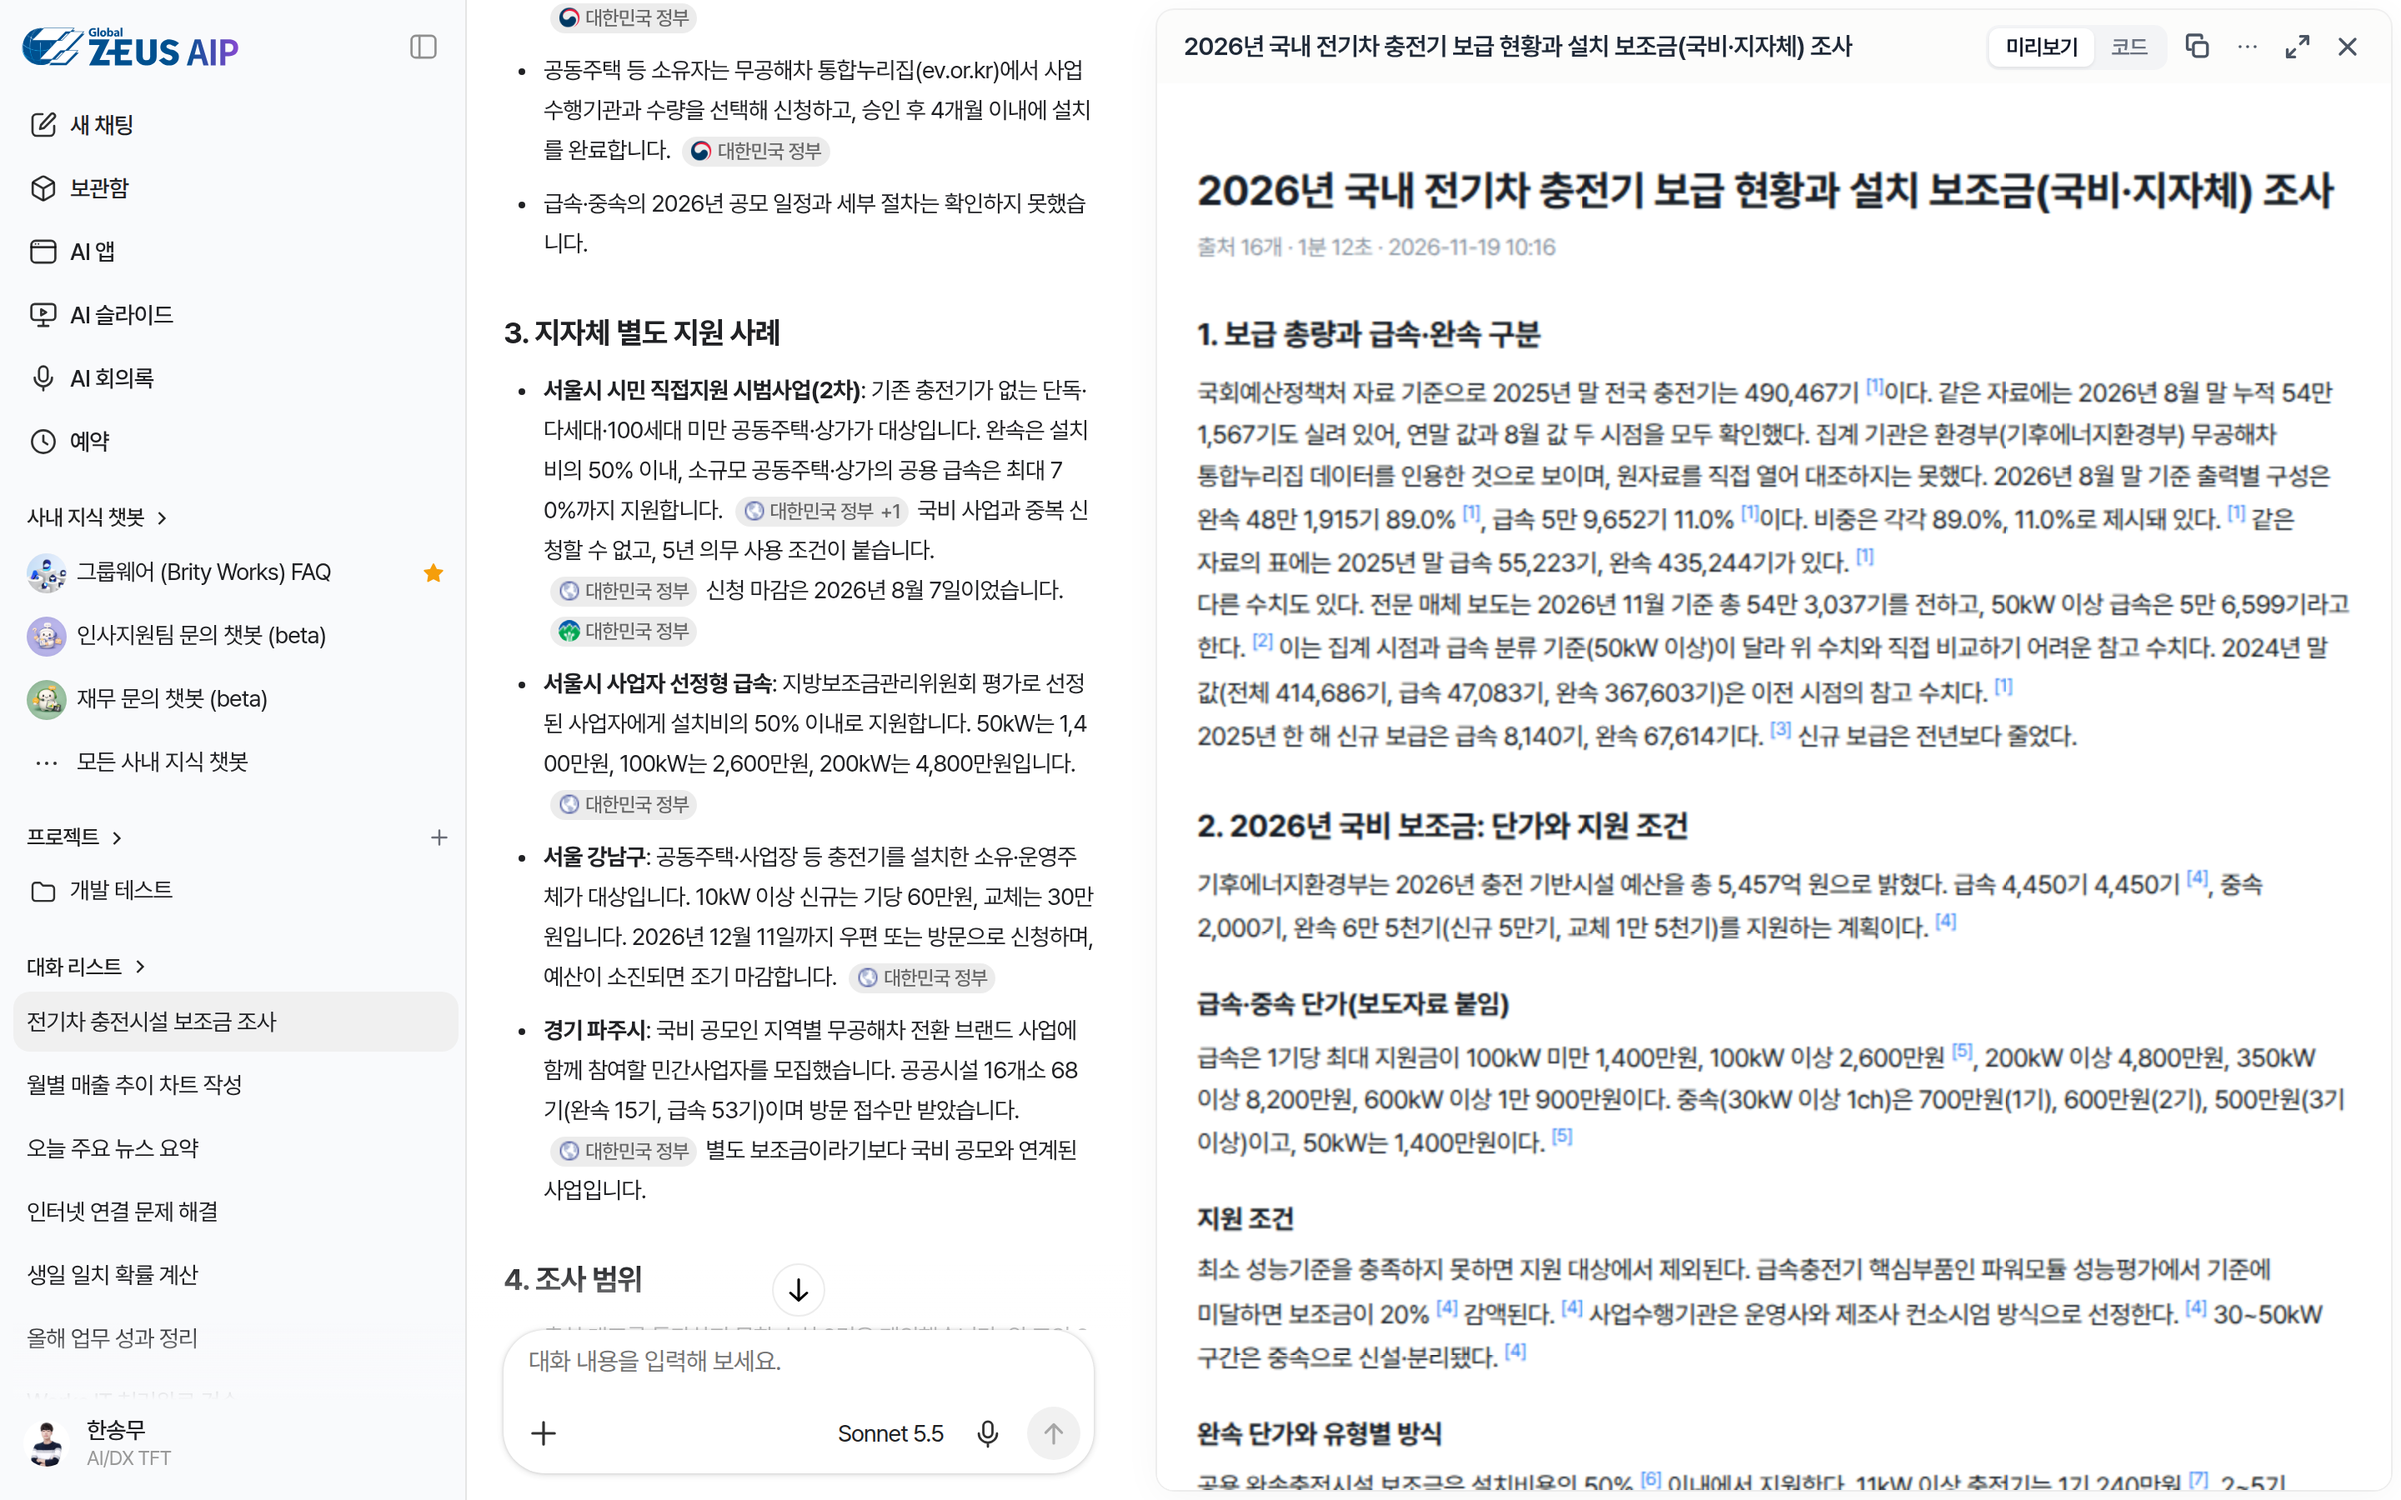
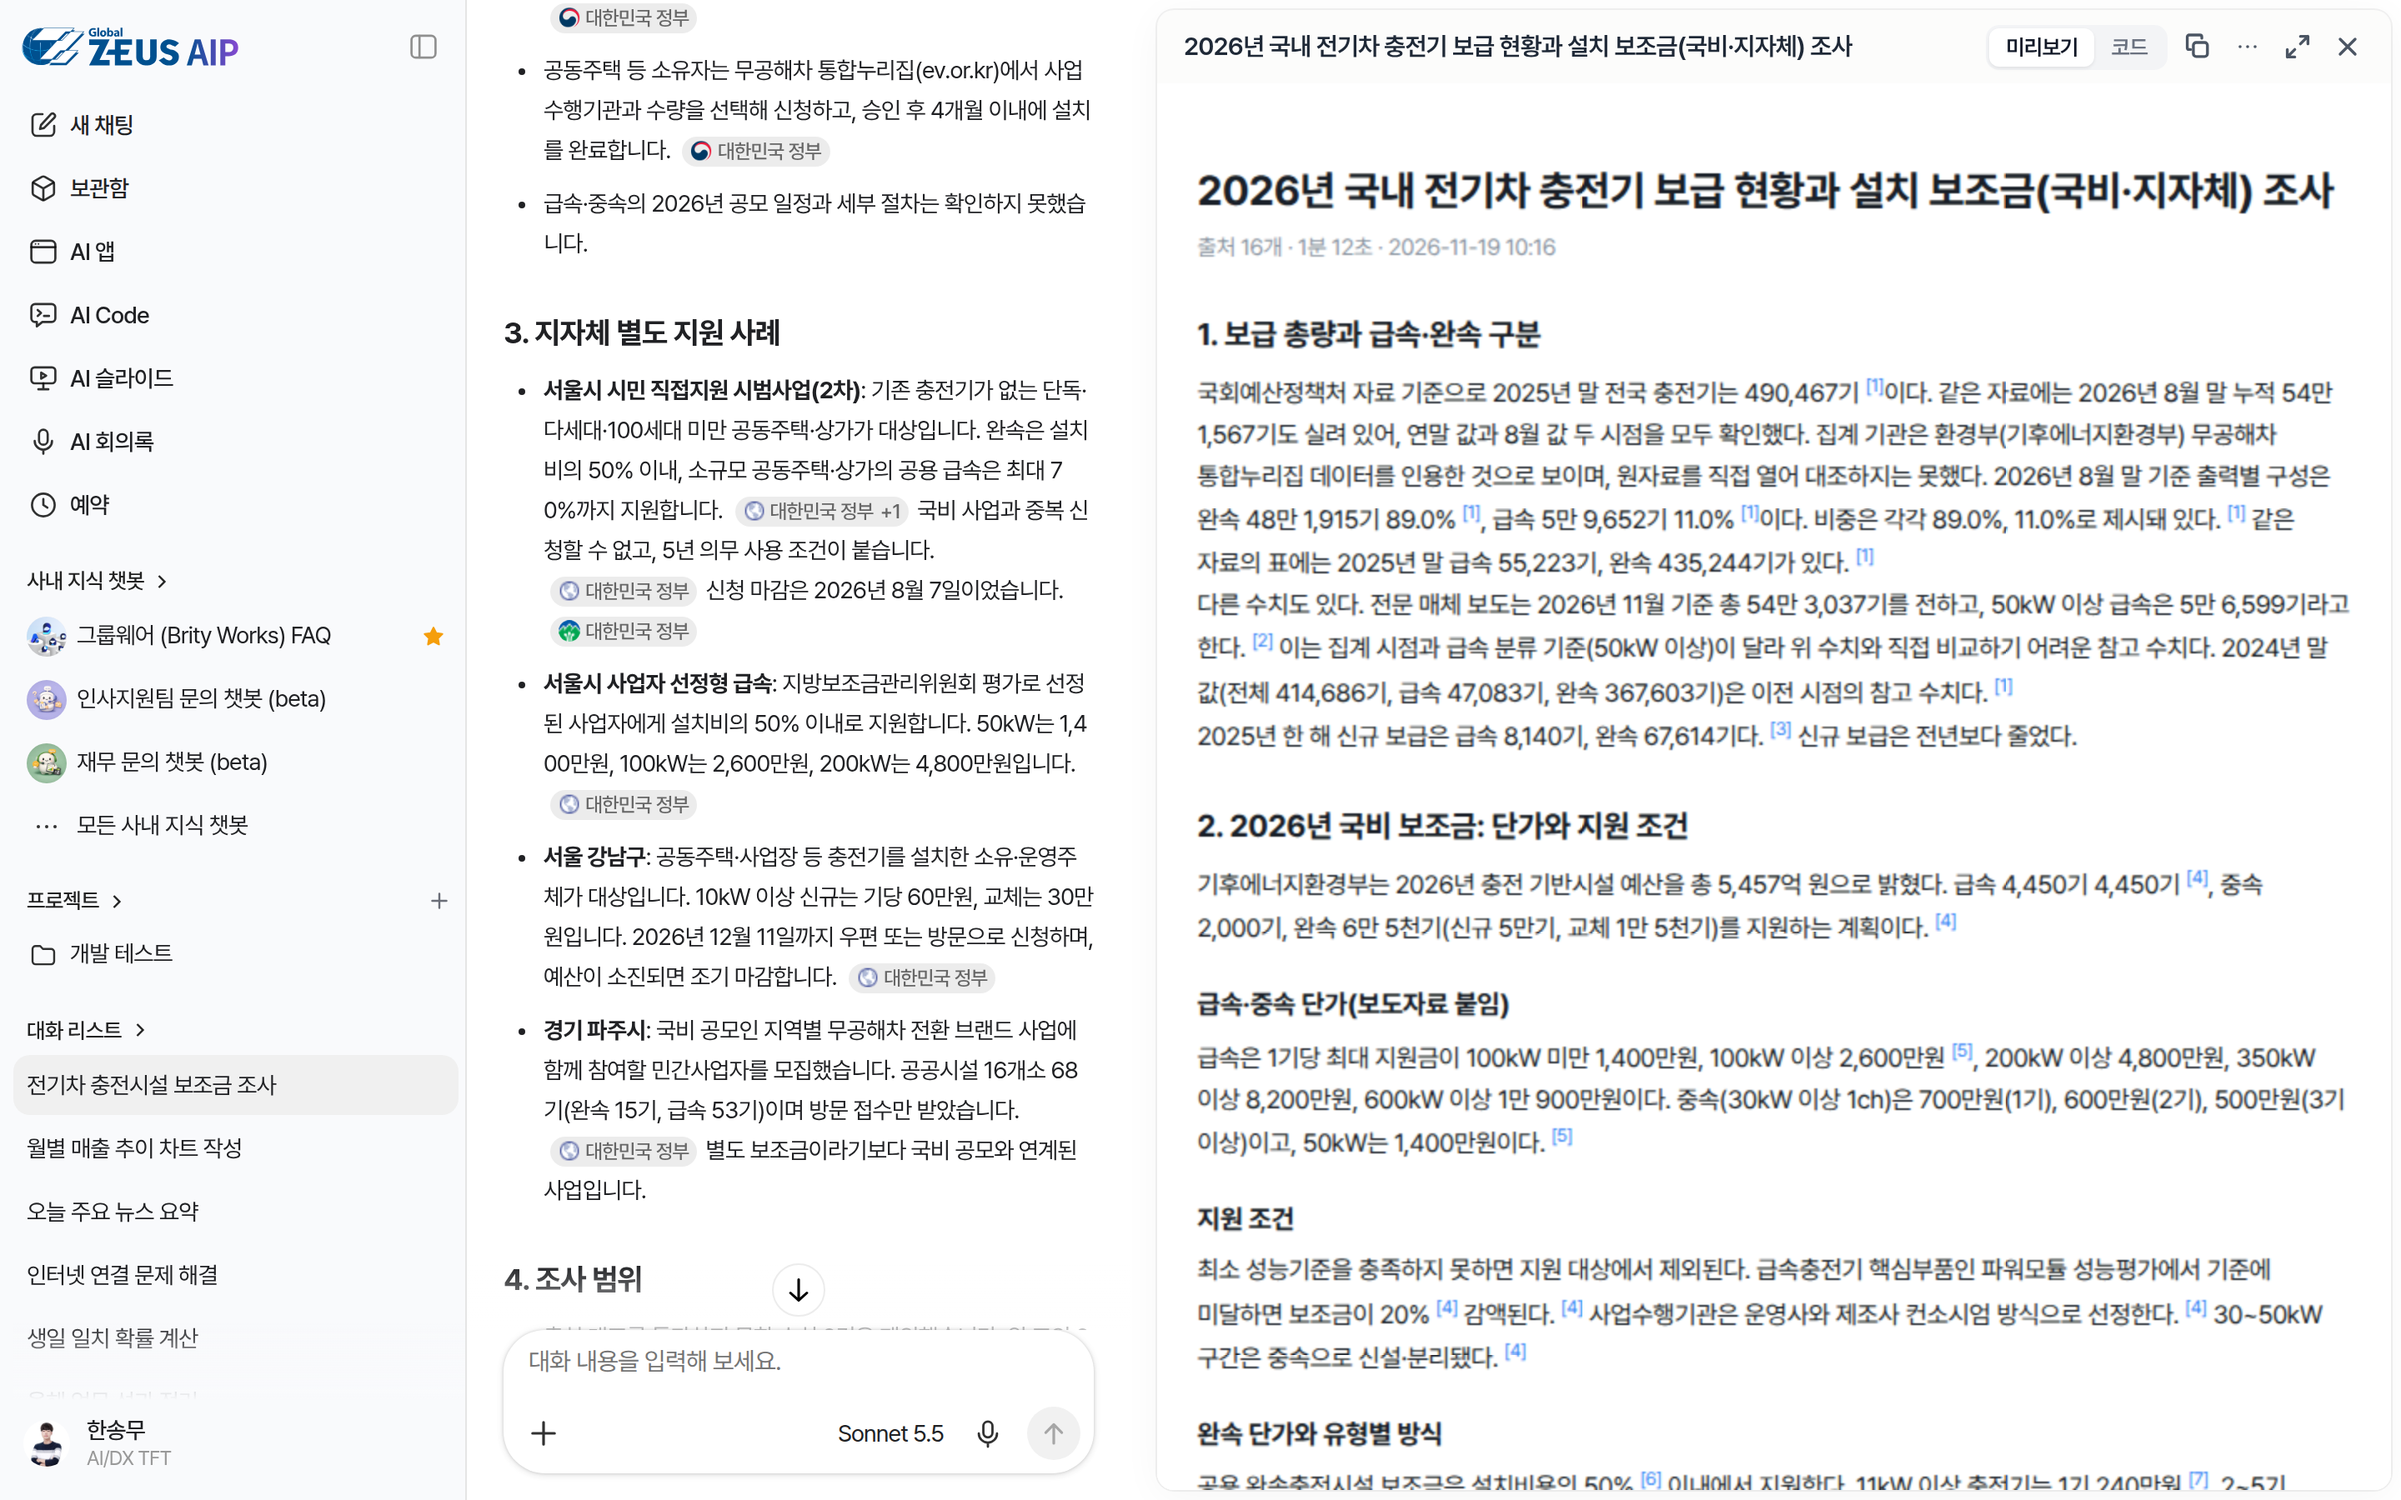
content(ai-platform): AI Code 섹션 추가, 캡처 세 장에 AI Code 메뉴 보이게
브라우저에서 쓰는 코딩 에이전트인 AI Code를 격리 작업 컨테이너,
GitLab 작업 브랜치 커밋, 플러그인과 스킬 중심으로 적고, 운영에서
동호회 신청 앱을 만들어 올린 세션 화면을 넣었다. 아직 일부 사용자만
쓰고 있어 시험 중이라고 밝혔다. 앞서 찍은 181, 194, 195는 사이드바에서
AI Code 메뉴를 숨겼던 것을 되돌려 다시 찍었다.

diff --git a/src/content/builds.ts b/src/content/builds.ts
@@ -569,6 +569,12 @@ export const builds: Build[] = [
       { type: 'paragraph', text: '외부 AI 도구에서는 내 메일 목록과 본문도 읽습니다. 서버가 본인 주소가 든 메일만 돌려줍니다.' },
       { type: 'image', src: '/projects/ai-platform/282.png', alt: '관리자 데이터 연결 계층 보기 - 왼쪽 원천 테이블, 가운데 ERP와 인사와 PMS 데이터셋, 오른쪽 쓰는 곳 MCP', caption: '데이터 연결 - 원천에서 데이터셋, 쓰는 곳까지' },
       { type: 'paragraph', text: '관리자 화면에서는 데이터셋마다 누가 어디까지 읽을지 정하고, 원천 테이블부터 쓰는 곳까지 이어진 흐름을 계층으로 봅니다. 데이터셋이 늘면 목록만으로는 무엇이 어디로 흘러가는지 따라가기 어려웠기 때문입니다.' },
+      { type: 'heading', text: 'AI Code' },
+      { type: 'image', src: '/projects/ai-platform/311.png', alt: 'AI Code 세션 화면 - 왼쪽 세션 목록, 가운데 만든 앱을 직접 찍어 확인한 화면과 올린 AI 앱, 오른쪽 세션 환경과 결과물, 변경 사항', caption: 'AI Code 세션 - 만들고, 찍어 보고, AI 앱으로 올리기' },
+      { type: 'paragraph', text: '웹 채팅의 코드 실행은 한 번 돌고 끝나서, 파일 여러 개를 고치고 실행해 보며 다듬는 일에는 맞지 않았습니다. 그래서 Claude Code를 서버에서 돌리고 화면은 플랫폼에 붙여, 설치 없이 브라우저에서 코딩 에이전트를 쓰게 했습니다.' },
+      { type: 'paragraph', text: '세션마다 격리된 작업 컨테이너를 새로 띄우고, 인터넷은 정해 둔 범위까지만 엽니다. 에이전트는 만든 화면을 직접 찍어 보고 고친 뒤 AI 앱으로 올립니다.' },
+      { type: 'paragraph', text: 'GitLab 계정을 연결하면 저장소를 골라 세션을 열고, 고친 내용은 작업 브랜치에 커밋으로 남깁니다. 저장소 자격은 컨테이너 밖에만 두어 에이전트에게 넘기지 않습니다.' },
+      { type: 'paragraph', text: '채팅과 같은 플러그인으로 PMS, ERP, 인사 데이터를 내 권한 안에서 읽고, 스킬은 사람마다 골라 설치합니다. 지금은 일부 사용자에게 먼저 열어 시험하고 있습니다.' },
       { type: 'heading', text: '브라우저 확장' },
       { type: 'image', src: '/projects/ai-platform/283.png', alt: 'ZEUS AIP 대화에서 확장으로 페이지를 읽어 입고 현황을 표로 정리한 화면', caption: '로그인이 필요한 페이지를 읽어 대화에서 정리', narrow: true },
       { type: 'paragraph', text: '웹에서 동작하는 AI는 서버에서 페이지를 엽니다. 그래서 로그인이 필요한 화면과 사내 시스템은 읽지 못하고, 사람 대신 화면을 다루지도 못합니다. 사용자의 크롬은 이미 로그인돼 있고 사내망 안에 있으니, 에이전트가 그 브라우저에서 읽고 움직이도록 확장을 만들었습니다.' },

diff --git a/src/content/imageDims.ts b/src/content/imageDims.ts
@@ -68,6 +68,7 @@ export const imageDims: Record<string, { w: number; h: number }> = {
   '/projects/ai-platform/286.png': { w: 1600, h: 508 },
   '/projects/ai-platform/307.png': { w: 2440, h: 1400 },
   '/projects/ai-platform/308.png': { w: 2940, h: 1080 },
+  '/projects/ai-platform/311.png': { w: 2880, h: 1800 },
   '/projects/attach-ai-summary/pms-files.png': { w: 3840, h: 2160 },
   '/projects/attendance/115.png': { w: 1600, h: 900 },
   '/projects/attendance/43.png': { w: 1895, h: 943 },
